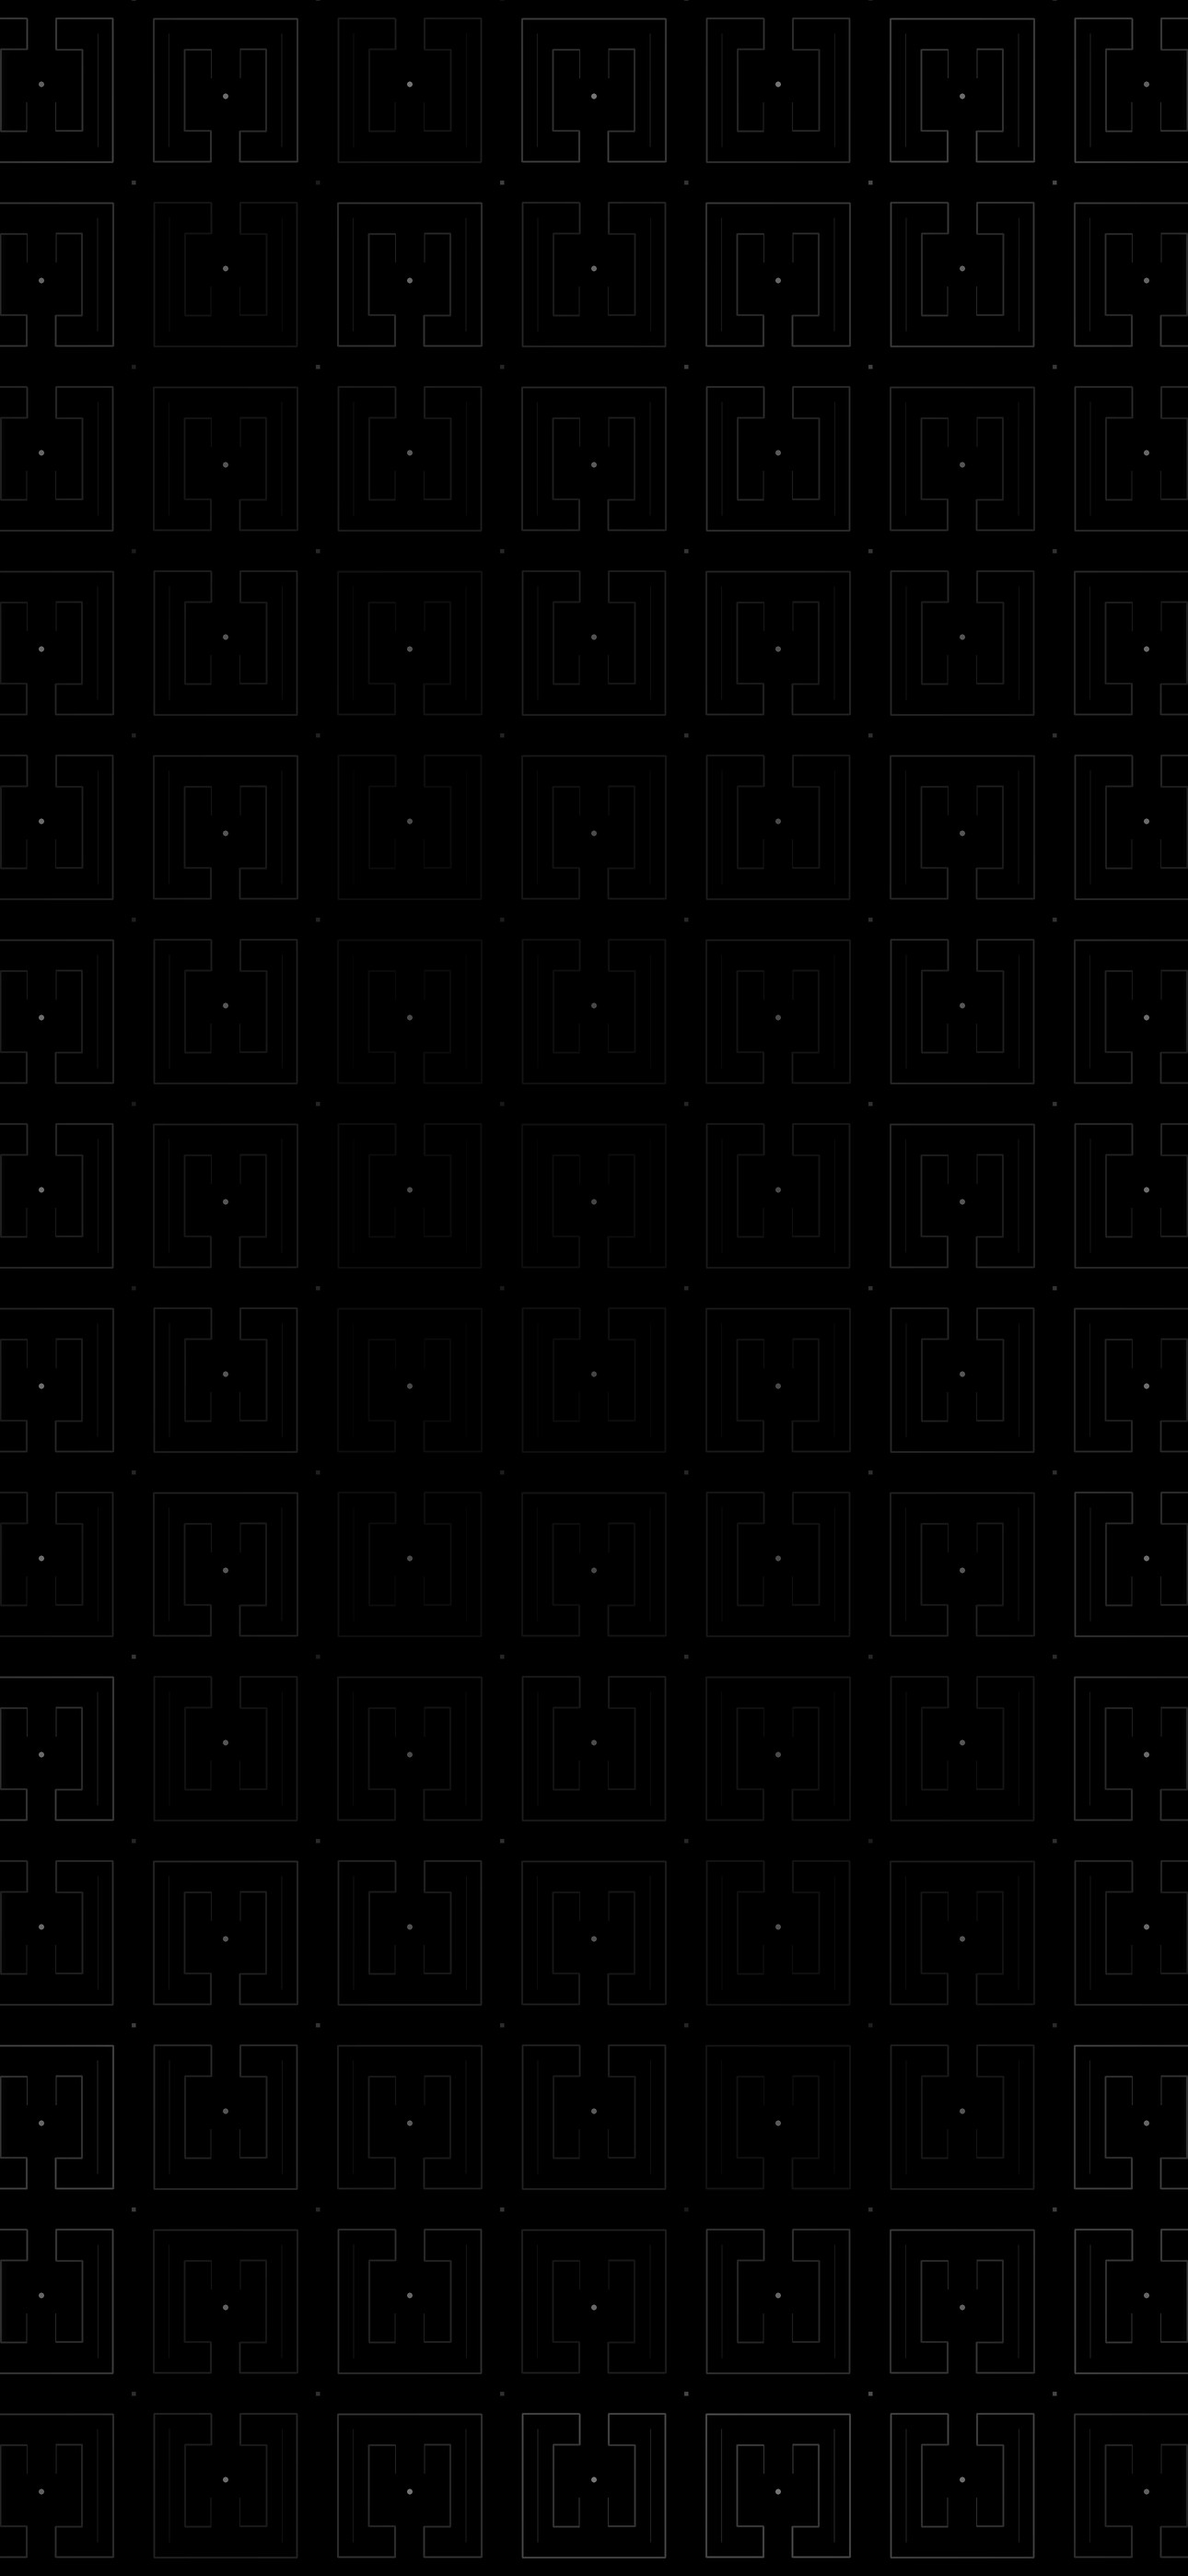
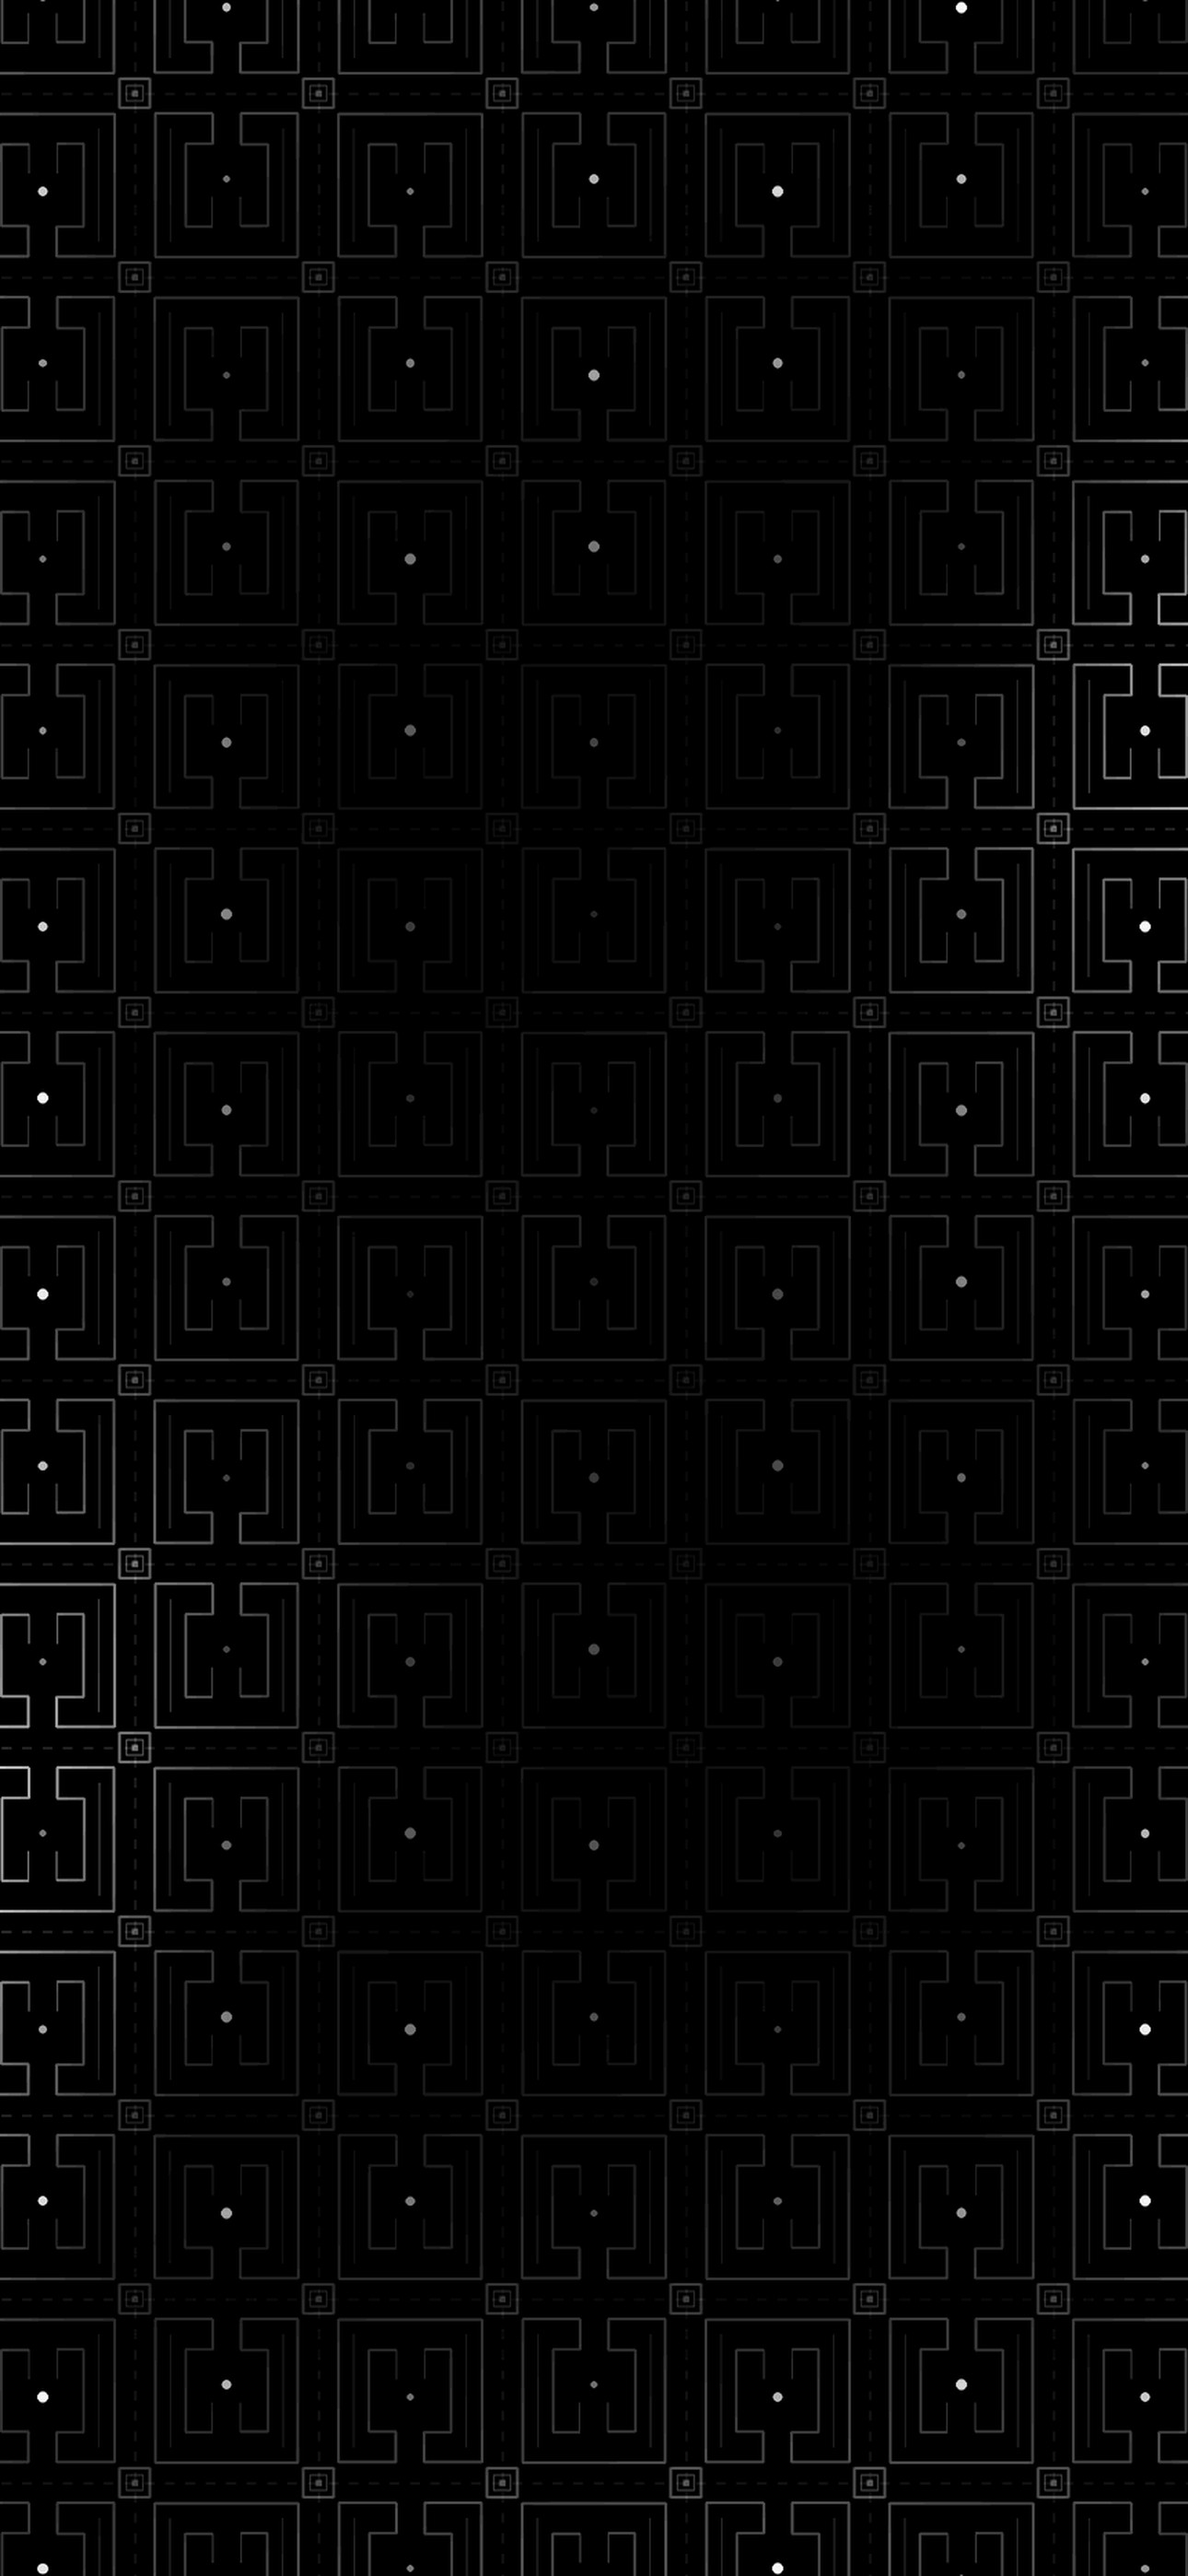
Kûfi: animasyonlu arka plan ve yeni şekiller
Çapraz ışık süzmesi, dönen baklavalar, nefes alan noktalar ve
hücreler arası kesik cetvel çizgileri; durağan JPG yedek olarak kaldı.

Claude-Session: https://claude.ai/code/session_0188rHyHdxZ451aQcetemD1N

diff --git a/kufi/kufi-felsefe.md b/kufi/kufi-felsefe.md
@@ -6,4 +6,6 @@ Kûfi, hat sanatının en geometrik biçimi olan murabba kûfiden doğar: harfle
 
 Renk tamamen yoktur. Zemin AMOLED ekranlarda pikselleri tamamen söndüren saf siyahtır (#000000), çizgiler kurşun grisinden kâğıt beyazına kadar uzanan tonlarda yavaşça parlayıp söner. Her hücrenin içinde tek bir beyaz nokta durur, hattatın kamışını ilk değdirdiği yer gibi. Desen kenarlarda belirgindir, ortaya doğru silinir ve sohbete yer açar.
 
+Desen durağan değildir. Çizgilerin üzerinden yavaşça çapraz bir ışık geçer, bir kandil ışığının kâğıtta gezinmesi gibi. Hücrelerin arasındaki küçük baklavalar çeyrek tur döner, beyaz noktalar ekran boyunca sırayla nefes alıp verir. Hücreler arasındaki ince kesik çizgiler, hattatın kâğıda çektiği cetvel izlerini hatırlatır.
+
 Vurgu da renkle değil parlaklıkla yapılır: en açık gri eylemi, orta gri seslenmeyi, saf beyaz bağlantıyı işaret eder. Sonuç, bir hattatın yıllarca aynı dik açıyı çizerek ulaştığı sadelik gibi hissettirmelidir: siyah, beyaz ve aradaki boşluk.

diff --git a/README.md b/README.md
@@ -116,4 +116,6 @@ Murabba kûfi hattından: is siyahı zemin, kâğıt beyazı ve kurşun grisi ka
 https://raw.githubusercontent.com/TozluMercek/gece-murekkebi/main/kufi/kufi.json
 ```
 
+Arka plan animasyonludur (GIF): çizgilerin üzerinden geçen bir ışık süzmesi, dönen baklavalar ve nefes alan noktalar. İstemcin GIF oynatmazsa JSON'daki `background.url` sonundaki `.gif`'i `.jpg` yap, aynı desenin durağan hâli gelir.
+
 Tasarım felsefesi: [kufi/kufi-felsefe.md](kufi/kufi-felsefe.md)
